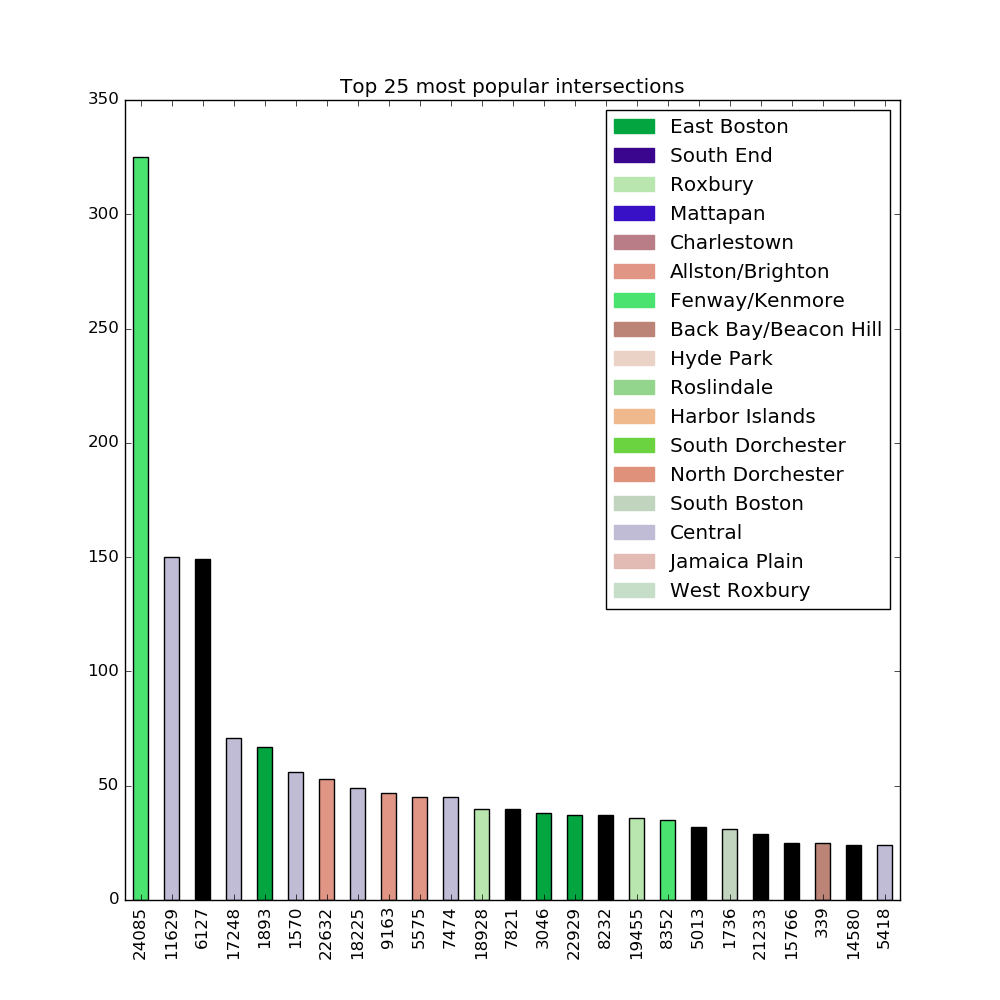
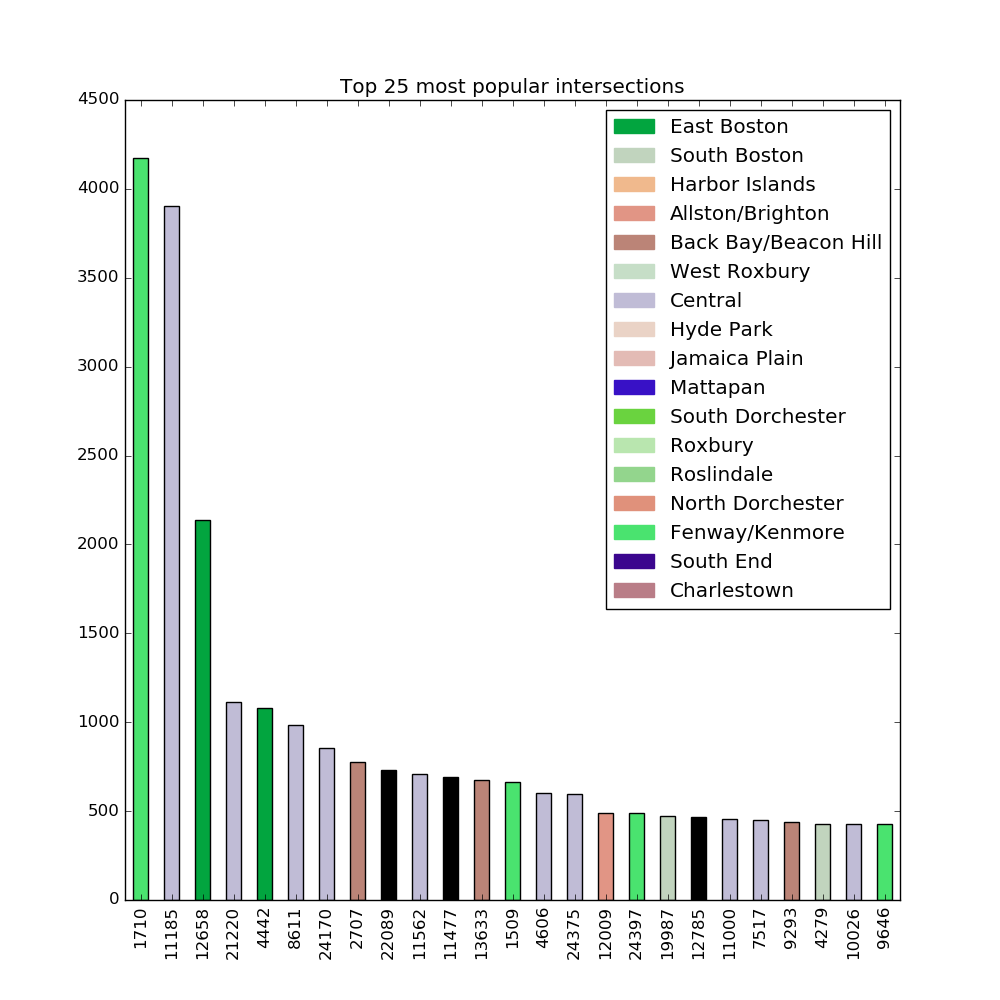
fix bug in chart

diff --git a/balawson/check-zone.py b/balawson/check-zone.py
@@ -17,7 +17,7 @@ repo = client.repo
 repo.authenticate('balawson', 'balawson')
 
 startTime  = datetime.datetime.now()
-tweets     = pd.DataFrame(list(repo.balawson.twitterIntersectionHours.find()))
+tweets     = pd.DataFrame(list(repo.balawson.twitterIntersectionMonthCounts.find()))
 
 
 sf = shapefile.Reader("./Planning_Districts/Planning_Districts.shp")
@@ -37,13 +37,15 @@ def determine_neighborhood(lat, lng):
 ####    using shape files determine which neighboorhood intersection is in
 ###############################################################
 def countpeople(row):
+    months = ['may', 'june', 'july', 'august', 'september', 'october', 'november', 'december', 'january', 'feburary', 'march', 'april']
     total = 0;
     for col in row.keys():
-        try:
-            int(col)
-            total += int(row[col])
-        except:
-            pass
+        if col in months:
+            try:
+                int(row[col])
+                total += int(row[col])
+            except:
+                continue 
     return total
 
 def color_map(df):
@@ -88,7 +90,7 @@ def make_patch(color, label):
 
 tweets = tweets.convert_objects(convert_numeric=True) #TODO this is getting deprenciated
 tweets['total'] = tweets.apply(lambda d: countpeople( d), axis=1)
-tweets.drop(['0', '1', '10', '11', '12', '13', '14', '15', '16', '17', '18', '19','2', '20', '21', '22', '23', '3', '4', '5', '6', '7', '8', '9', '_id',], inplace=True, axis=1)
+#tweets.drop(['0', '1', '10', '11', '12', '13', '14', '15', '16', '17', '18', '19','2', '20', '21', '22', '23', '3', '4', '5', '6', '7', '8', '9', '_id',], inplace=True, axis=1)
 tweets['lat'] = tweets.lat.apply(lambda d: float(d))
 tweets['lng'] = tweets.lng.apply(lambda d: float(d))
 tweets['neighborhoods'] = tweets.apply(lambda d: determine_neighborhood( d.lat, d.lng), axis=1) 
@@ -111,6 +113,7 @@ plt.ylabel('Number of Intersections')
 plt.title('Intersections by Neighborhood')
 tweets.neighborhoods.value_counts().plot(kind='bar')
 plt.savefig('img/numberofintersections.png')
+plt.close()
 
 sorted_tweets[:25].total.plot(kind='bar', color=colorful, figsize=(10,10))
 #plt.legend(handles=leg, loc='center left', bbox_to_anchor=(1, 0.5))
